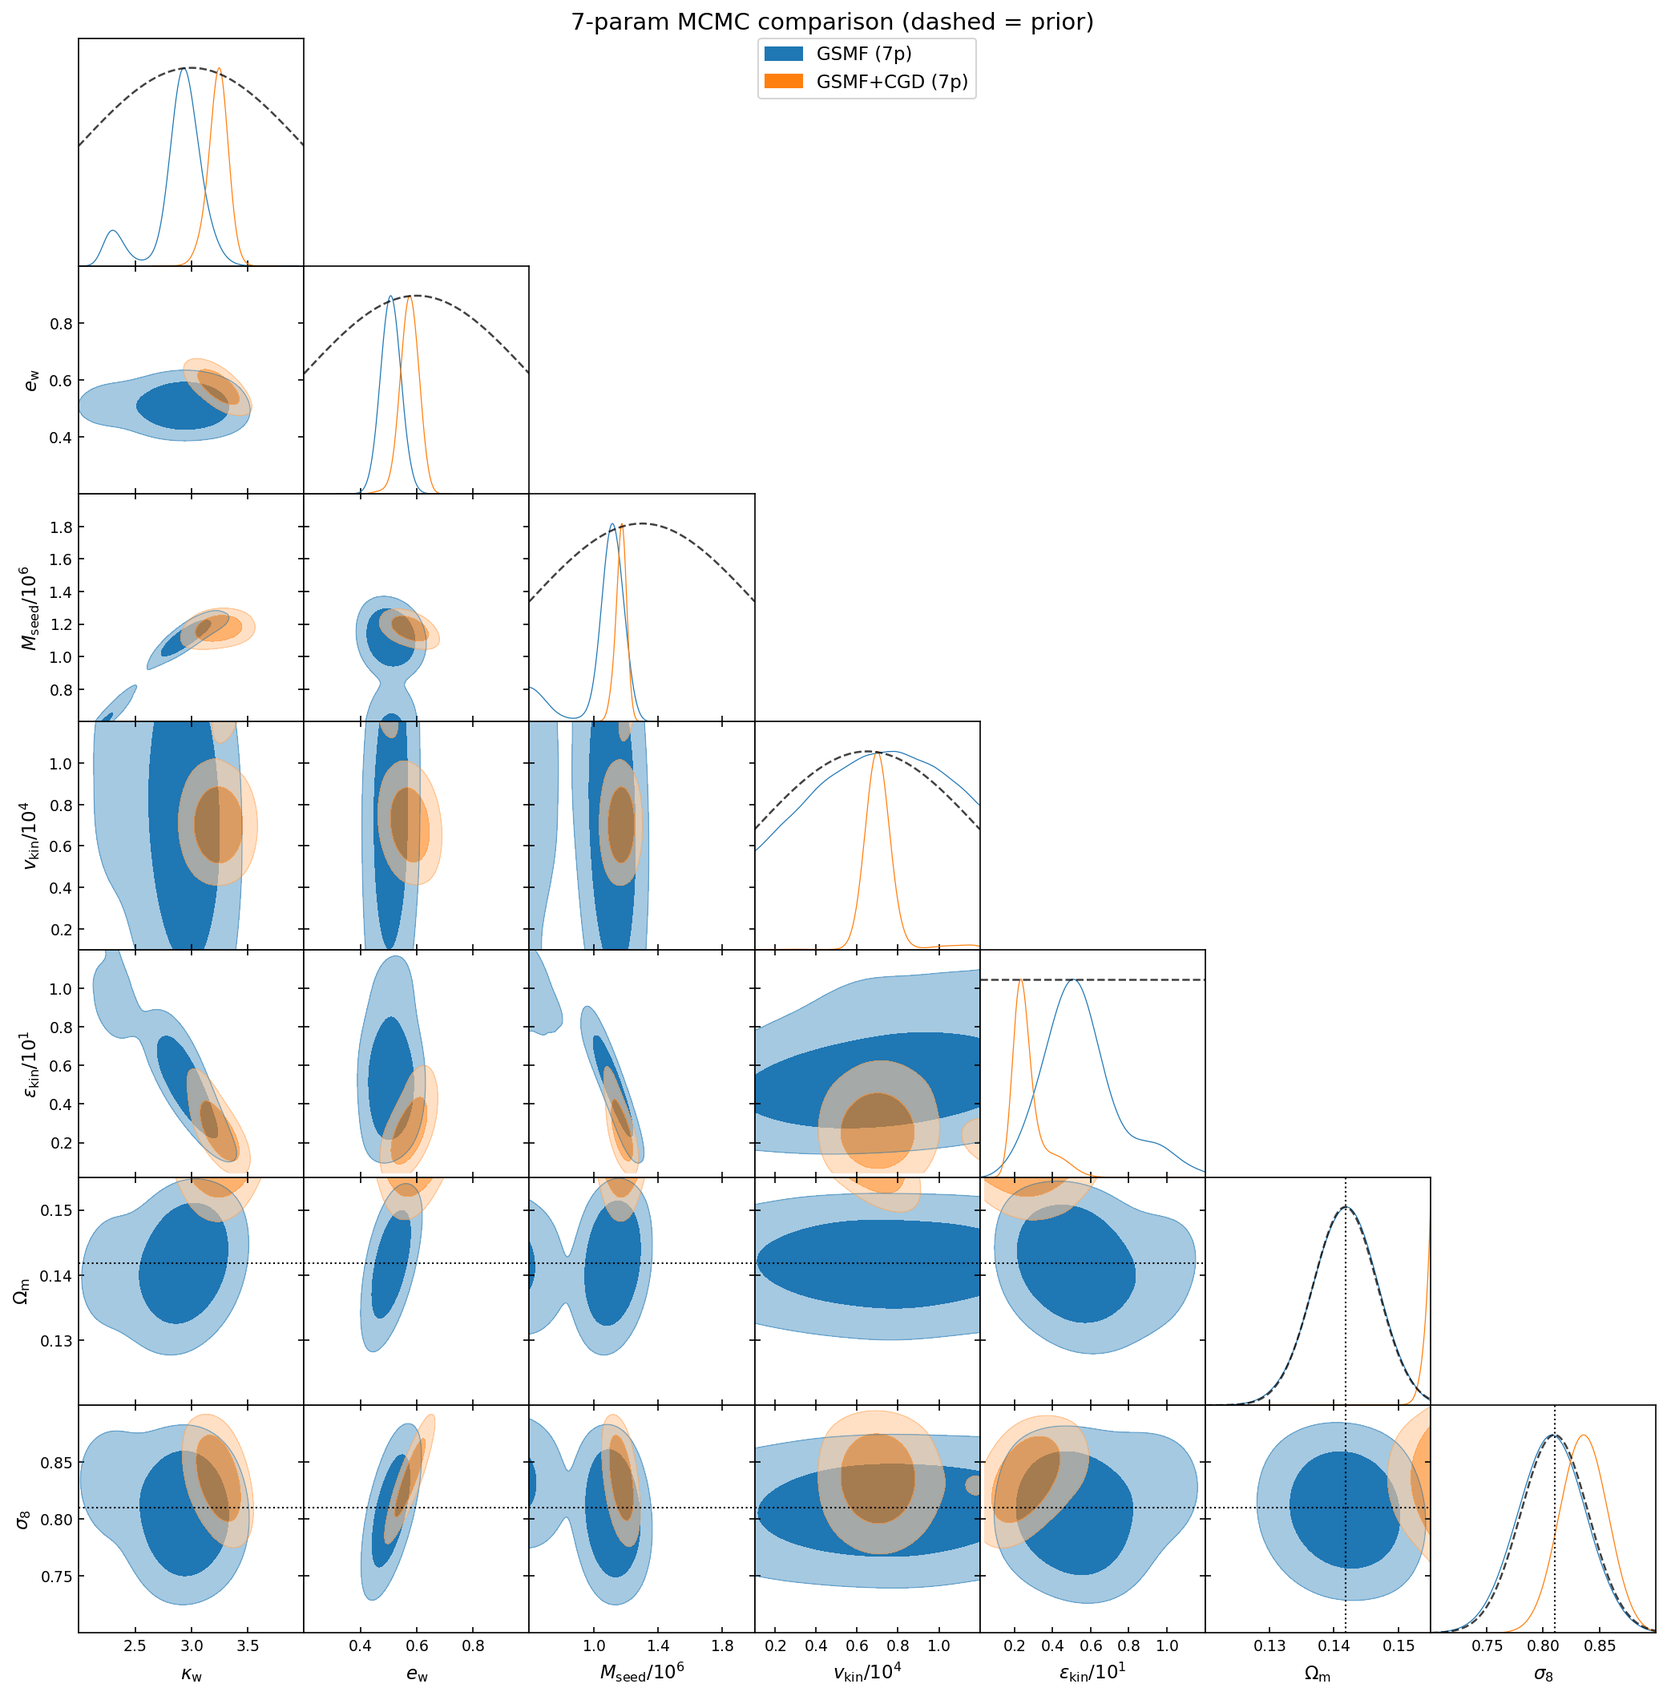
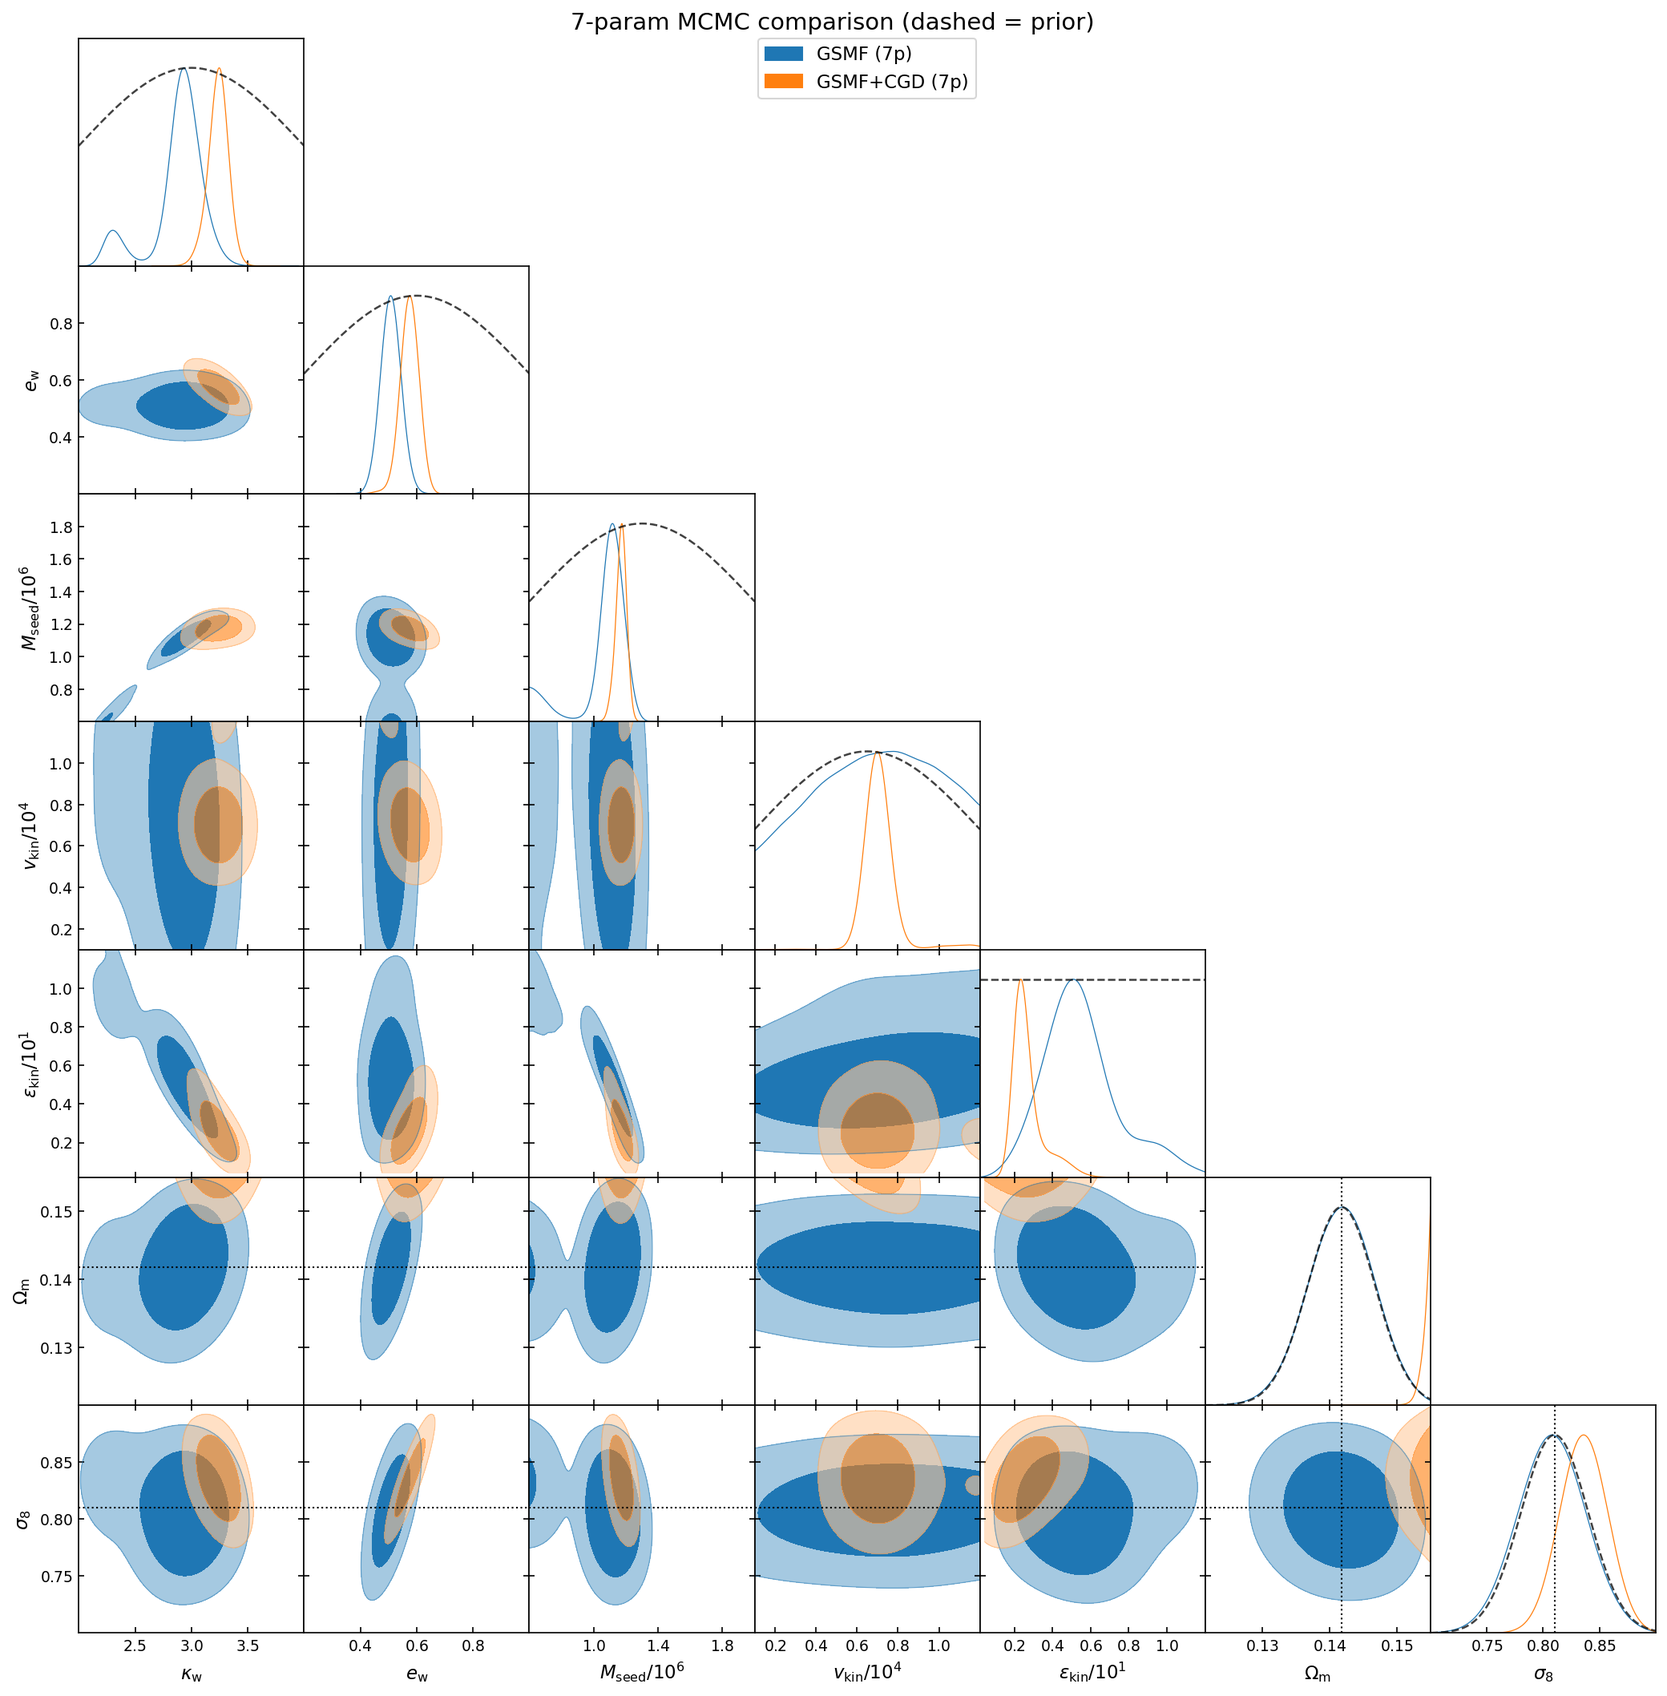
j6

diff --git a/Inference/plot_7p_vs_2cosmo_5subgrid.py b/Inference/plot_7p_vs_2cosmo_5subgrid.py
@@ -8,7 +8,7 @@ For each observable suite (GSMF, GSMF+CGD) it builds a triangle in the
   - the 5-subgrid-parameter (cosmology fixed) posterior on the subgrid panels.
 
 It also makes a 7-parameter comparison of GSMF vs GSMF+CGD, and the same set for
-the hard-truncated-prior (`*_trunc`) runs.
+the Planck-prior (`*_pk`) runs.
 
 The 1D diagonal panels show the prior as a dashed line (peak-normalized):
 cosmology = the (truncated) fiducial Gaussian, eps_kin = flat, other subgrid =
@@ -33,16 +33,17 @@ FID_OM, FID_S8 = 0.14176, 0.8102
 # Moderate = configs/_defaults.yaml (Gaussian truncated only by the design box).
 MODERATE_PRIOR = {'omega_m': (FID_OM, 0.005, 0.12, 0.155),
                   'sigma_8': (FID_S8, 0.03,  0.70, 0.90)}
-# Trunc = Planck-tight Gaussian hard-truncated at fiducial +/- 1 sigma
-# (matches the *_trunc configs).
-TRUNC_PRIOR = {'omega_m': (FID_OM, 0.0011, 0.14066, 0.14286),
-               'sigma_8': (FID_S8, 0.006,  0.8042, 0.8162)}
+# PK = Planck-width Gaussian (no hard cut; bounded only by the design box).
+# Matches the *_pk configs. (The hard-truncated *_trunc runs were retired to
+# old_results/retired_trunc/ — the wall amputated the real posterior.)
+PK_PRIOR = {'omega_m': (FID_OM, 0.0011, 0.12, 0.155),
+            'sigma_8': (FID_S8, 0.006,  0.70, 0.90)}
 
 # Full design-box (valid emulator) range for the cosmology params. Used to pad
 # the axis a bit OUTSIDE a tight prior window so the hard wall is visible (the
 # chain's KDE is still clipped at its own range, so nothing leaks).
 COSMO_VALID = {'omega_m': (0.12, 0.155), 'sigma_8': (0.70, 0.90)}
-AXIS_PAD_FRAC = 0.8   # pad each side by this fraction of the prior-window width
+AXIS_PAD_FRAC = 0.3   # pad each side by this fraction of the cosmo data span
 
 SETTINGS = {'mult_bias_correction_order': 0.5,
             'smooth_scale_2D': 4, 'smooth_scale_1D': 4}
@@ -105,8 +106,8 @@ def overlay_priors(g, names, ranges, cosmo_prior):
     """Dashed prior curve (peak-normalized) on each 1D diagonal panel.
 
     cosmo_prior : dict {'omega_m': (mu, sigma, lo, hi), 'sigma_8': (...)} giving
-    the cosmology Gaussian and its hard-truncation window (MODERATE_PRIOR for the
-    moderate runs, TRUNC_PRIOR for the *_trunc runs).
+    the cosmology Gaussian and its truncation window (MODERATE_PRIOR for the
+    moderate runs, PK_PRIOR for the *_pk Planck-prior runs).
     """
     for i, name in enumerate(names):
         ax = g.subplots[i, i]
@@ -134,20 +135,28 @@ def overlay_priors(g, names, ranges, cosmo_prior):
         ax.set_ylim(0, 1.15)
 
 
-def axis_limits(names, ranges):
-    """Axis limits per parameter. Subgrid params use the chain range (= valid
-    range). Cosmology params get padded a bit OUTSIDE the (possibly tight) prior
-    window, clamped to the design box, so the hard wall is visible on the plot."""
+def axis_limits(loaded, names):
+    """Axis limits per parameter. Subgrid params use the chain range. Cosmology
+    params are auto-zoomed to where the posteriors actually live (data 0.3-99.7
+    percentile across all chains, fiducial always included, padded), clamped to
+    the design box. This shows the railing moderate runs over the full box AND
+    the tight Planck (_pk) runs zoomed near fiducial, without manual tuning."""
+    anchor = max(loaded, key=lambda l: len(l[1]))
+    ranges = anchor[2]
     lim = {}
     for nm in names:
         kind = _cosmo_kind(nm)
-        lo, hi = ranges[nm]
         if kind in COSMO_VALID:
-            pad = (hi - lo) * AXIS_PAD_FRAC
+            vals = [l[0][:, l[1].index(nm)] for l in loaded if nm in l[1]]
+            allv = np.concatenate(vals)
+            lo, hi = np.percentile(allv, 0.3), np.percentile(allv, 99.7)
+            fid = FID_OM if kind == 'omega_m' else FID_S8
+            lo, hi = min(lo, fid), max(hi, fid)
+            pad = (hi - lo) * AXIS_PAD_FRAC + 1e-6
             vlo, vhi = COSMO_VALID[kind]
             lim[nm] = (max(vlo, lo - pad), min(vhi, hi + pad))
         else:
-            lim[nm] = (lo, hi)
+            lim[nm] = ranges[nm]
     return lim
 
 
@@ -192,7 +201,8 @@ def make_triangle(obs_label, t7p, t2c, t5p, output, cosmo_prior=MODERATE_PRIOR):
 
     g = _plotter()
     g.triangle_plot(mcs, params=names, filled=True, legend_labels=labels,
-                    param_limits=axis_limits(names, ranges), contour_colors=colors)
+                    param_limits=axis_limits([l for (l, _, _) in avail], names),
+                    contour_colors=colors)
     fiducial_crosshairs(g, names)
     overlay_priors(g, names, ranges, cosmo_prior)
     plt.suptitle(f'{obs_label} — 7-param vs 2-cosmology vs 5-subgrid MCMC '
@@ -206,12 +216,13 @@ def make_7p_comparison(suites, output, cosmo_prior=MODERATE_PRIOR):
     """Overlay the 7-parameter posteriors of several suites on one triangle.
     suites = [(trial_name, label, color), ...]."""
     print("\n=== 7p comparison ===")
-    mcs, colors, labels, names_ref, ranges_ref = [], [], [], None, None
+    mcs, colors, labels, loaded, names_ref, ranges_ref = [], [], [], [], None, None
     for trial, label, color in suites:
         l = load(trial)
         if l is None:
             continue
         mcs.append(mcsamples(l, label)); colors.append(color); labels.append(label)
+        loaded.append(l)
         if names_ref is None:
             names_ref, ranges_ref = l[1], l[2]
     if len(mcs) < 2:
@@ -219,7 +230,7 @@ def make_7p_comparison(suites, output, cosmo_prior=MODERATE_PRIOR):
         return
     g = _plotter()
     g.triangle_plot(mcs, params=names_ref, filled=True, legend_labels=labels,
-                    param_limits=axis_limits(names_ref, ranges_ref), contour_colors=colors)
+                    param_limits=axis_limits(loaded, names_ref), contour_colors=colors)
     fiducial_crosshairs(g, names_ref)
     overlay_priors(g, names_ref, ranges_ref, cosmo_prior)
     plt.suptitle('7-param MCMC comparison (dashed = prior)', y=1.005, fontsize=14)
@@ -239,18 +250,18 @@ def main():
          ('GSMF_CGD_7p', 'GSMF+CGD (7p)', '#ff7f0e')],
         os.path.join(RESULTS, 'plot_7p_GSMF_vs_GSMF_CGD.png'))
 
-    # --- hard-truncated-prior runs (Planck-tight Gaussian, fiducial +/-1 sigma) ---
-    make_triangle('GSMF, Planck prior', 'GSMF_7p_trunc', 'GSMF_2cosmo_trunc', None,
-                  os.path.join(RESULTS, 'plot_7p_vs_2cosmo_5subgrid_trunc.png'),
-                  cosmo_prior=TRUNC_PRIOR)
-    make_triangle('GSMF+CGD, Planck prior', 'GSMF_CGD_7p_trunc', 'GSMF_CGD_2cosmo_trunc', None,
-                  os.path.join(RESULTS, 'plot_7p_vs_2cosmo_5subgrid_GSMF_CGD_trunc.png'),
-                  cosmo_prior=TRUNC_PRIOR)
+    # --- Planck-prior runs (Planck-width Gaussian, no hard cut) ---
+    make_triangle('GSMF, Planck prior', 'GSMF_7p_pk', 'GSMF_2cosmo_pk', None,
+                  os.path.join(RESULTS, 'plot_7p_vs_2cosmo_5subgrid_pk.png'),
+                  cosmo_prior=PK_PRIOR)
+    make_triangle('GSMF+CGD, Planck prior', 'GSMF_CGD_7p_pk', 'GSMF_CGD_2cosmo_pk', None,
+                  os.path.join(RESULTS, 'plot_7p_vs_2cosmo_5subgrid_GSMF_CGD_pk.png'),
+                  cosmo_prior=PK_PRIOR)
     make_7p_comparison(
-        [('GSMF_7p_trunc', 'GSMF (7p, Planck)', '#1f77b4'),
-         ('GSMF_CGD_7p_trunc', 'GSMF+CGD (7p, Planck)', '#ff7f0e')],
-        os.path.join(RESULTS, 'plot_7p_GSMF_vs_GSMF_CGD_trunc.png'),
-        cosmo_prior=TRUNC_PRIOR)
+        [('GSMF_7p_pk', 'GSMF (7p, Planck)', '#1f77b4'),
+         ('GSMF_CGD_7p_pk', 'GSMF+CGD (7p, Planck)', '#ff7f0e')],
+        os.path.join(RESULTS, 'plot_7p_GSMF_vs_GSMF_CGD_pk.png'),
+        cosmo_prior=PK_PRIOR)
 
 
 if __name__ == '__main__':

diff --git a/Inference/diagnostics/check_cosmo_marg_vs_fixed.py b/Inference/diagnostics/check_cosmo_marg_vs_fixed.py
@@ -1,22 +1,24 @@
 """2D (omega_m, sigma_8) overlay: marginalized-hydro vs fixed-hydro, and the
-moderate-prior vs hard-truncated-prior (*_trunc) runs.
+moderate-prior vs Planck-prior (*_pk) runs.
 
 What this answers
 -----------------
   - "If we fix hydro instead of marginalizing, how much does cosmology change?"
-  - "Does the Planck-tight hard-truncated prior actually confine cosmology?"
+  - "What does the cosmology posterior look like under a Planck-width prior?"
 
-IMPORTANT: each chain's MCSamples is given ITS OWN range (read from the saved
-params_list), so getdist's KDE is boundary-corrected at the true hard wall. If
-you instead pass the wide design-box range for a *_trunc chain, getdist smears
-the wall-piled density well past the wall and it *looks* like the run escaped
-the truncation — it didn't. The truncation is enforced in the sampler.
+Each chain's MCSamples is given ITS OWN range (read from the saved params_list),
+so getdist's KDE is boundary-corrected at the right place and nothing leaks.
+
+(The hard-truncated *_trunc runs were retired to old_results/retired_trunc/: the
+±1σ wall amputated the real posterior — see diagnostics/2p_cosmology_issue.md.
+The *_pk runs keep the Planck-width Gaussian but no hard cut, giving a complete
+posterior.)
 
 Chains (GSMF + CGD); each skipped if absent:
-  - GSMF_CGD_7p           moderate prior, hydro marginalized   (cols 5,6)
-  - GSMF_CGD_2cosmo       moderate prior, hydro FIXED          (cols 0,1)
-  - GSMF_CGD_7p_trunc     Planck-tight prior, hydro marginalized (cols 5,6)
-  - GSMF_CGD_2cosmo_trunc Planck-tight prior, hydro FIXED        (cols 0,1)
+  - GSMF_CGD_7p        moderate prior, hydro marginalized   (cols 5,6)
+  - GSMF_CGD_2cosmo    moderate prior, hydro FIXED          (cols 0,1)
+  - GSMF_CGD_7p_pk     Planck prior,   hydro marginalized   (cols 5,6)
+  - GSMF_CGD_2cosmo_pk Planck prior,   hydro FIXED          (cols 0,1)
 
 Outputs: cosmo_marg_vs_fixed.png, cosmo_marg_vs_fixed_medians.txt
 """
@@ -35,7 +37,8 @@ OUT = os.path.join(V2, 'Inference/diagnostics')
 # Axis limits (design box) and fiducial.
 AXIS = {'omega_m': (0.12, 0.155), 'sigma_8': (0.70, 0.90)}
 FID = {'omega_m': 0.14176, 'sigma_8': 0.8102}
-# Hard-truncation window of the *_trunc runs (drawn as a box).
+# Planck +/-1 sigma reference band (drawn as a box for context; the *_pk runs use
+# this as the Gaussian width, NOT a hard wall).
 TRUNC_WIN = {'omega_m': (0.14066, 0.14286), 'sigma_8': (0.8042, 0.8162)}
 
 NAMES = ['omega_m', 'sigma_8']
@@ -44,8 +47,8 @@ LABELS = [r'\omega_m \equiv \Omega_m h^2', r'\sigma_8']
 CANDIDATES = [
     dict(label='7p marg, moderate prior',  trial='GSMF_CGD_7p',          cols=(5, 6), color='tab:red'),
     dict(label='2p fixed, moderate prior',  trial='GSMF_CGD_2cosmo',      cols=(0, 1), color='tab:blue'),
-    dict(label='7p marg, Planck-trunc',     trial='GSMF_CGD_7p_trunc',    cols=(5, 6), color='tab:purple'),
-    dict(label='2p fixed, Planck-trunc',    trial='GSMF_CGD_2cosmo_trunc', cols=(0, 1), color='tab:green'),
+    dict(label='7p marg, Planck prior',     trial='GSMF_CGD_7p_pk',    cols=(5, 6), color='tab:purple'),
+    dict(label='2p fixed, Planck prior',    trial='GSMF_CGD_2cosmo_pk', cols=(0, 1), color='tab:green'),
 ]
 
 
@@ -100,7 +103,7 @@ ax_2d.axvline(FID['omega_m'], color='k', ls=':', lw=1.0)
 ax_2d.axhline(FID['sigma_8'], color='k', ls=':', lw=1.0)
 ax_2d.plot([FID['omega_m']], [FID['sigma_8']], marker='*', ms=12, mfc='gold',
            mec='k', mew=0.8, ls='', zorder=20)
-# hard-truncation window (the wall the *_trunc runs live inside)
+# Planck +/-1 sigma reference band (context only; *_pk has no hard wall)
 (olo, ohi), (slo, shi) = TRUNC_WIN['omega_m'], TRUNC_WIN['sigma_8']
 ax_2d.add_patch(plt.Rectangle((olo, slo), ohi - olo, shi - slo, fill=False,
                               ec='k', lw=1.4, ls='--', zorder=19))
@@ -110,8 +113,8 @@ for v in (slo, shi):
     ax_s8.axvline(v, color='k', ls='--', lw=1.0, alpha=0.6)
 
 g.fig.suptitle('GSMF+CGD cosmology: marginalized vs fixed hydro, '
-               'moderate vs Planck-truncated prior\n'
-               '(dashed box = truncation window; star = fiducial)',
+               'moderate vs Planck prior\n'
+               '(dashed box = Planck ±1σ; star = fiducial)',
                y=1.04, fontsize=12)
 out_path = os.path.join(OUT, 'cosmo_marg_vs_fixed.png')
 g.export(out_path)
@@ -122,7 +125,7 @@ sumpath = os.path.join(OUT, 'cosmo_marg_vs_fixed_medians.txt')
 with open(sumpath, 'w') as f:
     f.write('Cosmology posterior on (omega_m, sigma_8)\n')
     f.write(f'fiducial: omega_m={FID["omega_m"]:.5f}, sigma_8={FID["sigma_8"]:.4f}\n')
-    f.write(f'trunc window: omega_m{TRUNC_WIN["omega_m"]}, sigma_8{TRUNC_WIN["sigma_8"]}\n\n')
+    f.write(f'Planck +/-1sig: omega_m{TRUNC_WIN["omega_m"]}, sigma_8{TRUNC_WIN["sigma_8"]}\n\n')
     f.write(f'{"chain":28s}  {"omega_m med [min,max]":34s}  {"sigma_8 med [min,max]"}\n')
     for c in loaded:
         s = c['samples']

diff --git a/Inference/diagnostics/2p_cosmology_issue.md b/Inference/diagnostics/2p_cosmology_issue.md
@@ -114,6 +114,27 @@ This is **not a bug** — it is the expected behaviour of a degeneracy-broken fi
 
 ---
 
+## Update: hard-truncated (`*_trunc`) priors retired in favour of `*_pk`
+
+We tried a **hard ±1σ truncation** of the Planck Gaussian (`*_trunc` configs:
+σ=0.0011/0.006, with `param_ranges` forcing `ln_prior → -inf` outside the
+window). The sampler respected it (every point stayed inside), but the result
+was misleading: the prior-comparison sweep showed the true GSMF+CGD posterior
+peaks at **σ₈ ≈ 0.786**, which lies *below* the cut window [0.804, 0.816]. So the
+hard wall **amputated** the real posterior and piled 54% of σ₈ samples against
+the lower wall. A hard ±1σ wall is an arbitrary fence — not a physical bound — so
+it has no place in inference.
+
+**Resolution:** retired all `*_trunc` configs/chains to
+`old_results/retired_trunc/`. Use **`*_pk`** instead — same Planck-width Gaussian
+(σ=0.0011/0.006) but **no hard cut** (only the design box bounds it), giving a
+complete (closed) posterior at (Ωₘ≈0.1415, σ₈≈0.786). The deeper signal is a
+**σ₈ tension**: the data (GSMF+CGD, hydro fixed) prefer σ₈≈0.77 vs Planck 0.81,
+and the likelihood peaks *inside* the box (it is not trying to escape it — the
+"railing" was the Ωₘ–σ₈ degeneracy ridge). See `diagnostics/prior_comparison.png`.
+
+---
+
 ## How to reproduce
 
 ```bash
@@ -124,7 +145,11 @@ python diagnostics/likelihood_sweep_cosmo.py
 python plot_7p_vs_2cosmo_5subgrid.py
 ```
 
-Relevant configs (all inherit the cosmology prior from `_defaults.yaml`):
-`GSMF_7p`, `GSMF_2cosmo`, `GSMF_5p_fid_cosmo`,
-`GSMF_CGD_7p`, `GSMF_CGD_2cosmo`, `GSMF_CGD_5p_fid_cosmo`.
-The `*_2cosmo` runs fix hydro at the **fiducial** values (3, 0.5, 0.8, 0.51, 0.13).
+Relevant configs:
+- moderate prior (from `_defaults.yaml`): `GSMF_7p`, `GSMF_2cosmo`,
+  `GSMF_5p_fid_cosmo`, `GSMF_CGD_7p`, `GSMF_CGD_2cosmo`, `GSMF_CGD_5p_fid_cosmo`.
+- Planck prior (Planck-width Gaussian, no hard cut): `GSMF_7p_pk`,
+  `GSMF_2cosmo_pk`, `GSMF_CGD_7p_pk`, `GSMF_CGD_2cosmo_pk`.
+- retired hard-cut (`*_trunc`) and `GSMF_CGD_fGas_*` live under `old_results/`.
+
+The `*_2cosmo*` runs fix hydro at the **fiducial** values (3, 0.5, 0.8, 0.51, 0.13).

diff --git a/Inference/configs/README.md b/Inference/configs/README.md
@@ -60,9 +60,15 @@ params otherwise use the broad default Gaussian (midpoint, σ=half-range).
 ### Cosmology-only / custom
 | Config | Observables | Notes |
 |---|---|---|
-| `GSMF_2cosmo.yaml` | GSMF | `omega_m`, `sigma_8` free, hydro fixed at midpoints. GSMF-only control; pairs with `GSMF_7p` for a GSMF-only cosmo marg-vs-fixed check. |
-| `GSMF_CGD_2cosmo.yaml` | GSMF + CGD | `omega_m`, `sigma_8` free, hydro fixed at midpoints. Fixed partner for the GSMF+CGD cosmo marg-vs-fixed check (pairs with `GSMF_CGD_7p`). |
+| `GSMF_2cosmo.yaml` | GSMF | `omega_m`, `sigma_8` free, hydro fixed at fiducial. GSMF-only control; pairs with `GSMF_7p` for a GSMF-only cosmo marg-vs-fixed check. |
+| `GSMF_CGD_2cosmo.yaml` | GSMF + CGD | `omega_m`, `sigma_8` free, hydro fixed at fiducial. Fixed partner for the GSMF+CGD cosmo marg-vs-fixed check (pairs with `GSMF_CGD_7p`). |
 | `sigma8_vkin_custom.yaml` | GSMF + CGD | Custom: `v_kin`, `eps_kin`, `sigma_8` free. |
+
+#### Planck-prior variants (`*_pk`)
+`GSMF_7p_pk`, `GSMF_2cosmo_pk`, `GSMF_CGD_7p_pk`, `GSMF_CGD_2cosmo_pk` — same as
+the base configs but the cosmology prior is a **Planck-width Gaussian**
+(σ_ωm=0.0011, σ_σ8=0.006, via `gaussian_priors`), bounded only by the design box
+(no hard cut). Use these for a Planck-informed, complete cosmology posterior.
 
 ### Bias / multi-redshift
 | Config | Observables | Notes |
@@ -79,3 +85,7 @@ params otherwise use the broad default Gaussian (midpoint, σ=half-range).
 > `old_results/retired_GSMF_CGD_fGas/`: adding CGD **and** fGas drove cosmology
 > to the upper design-box edge (Ωₘ→0.155, σ₈→0.9) in both hydro-free and
 > hydro-fixed runs. The `GSMF_CGD_*` trio above is the fGas-free replacement.
+>
+> The hard-truncated `*_trunc` cosmology priors were retired to
+> `old_results/retired_trunc/`: the ±1σ hard wall amputated the real posterior
+> (see `diagnostics/2p_cosmology_issue.md`). Use `*_pk` (Gaussian, no hard cut).
